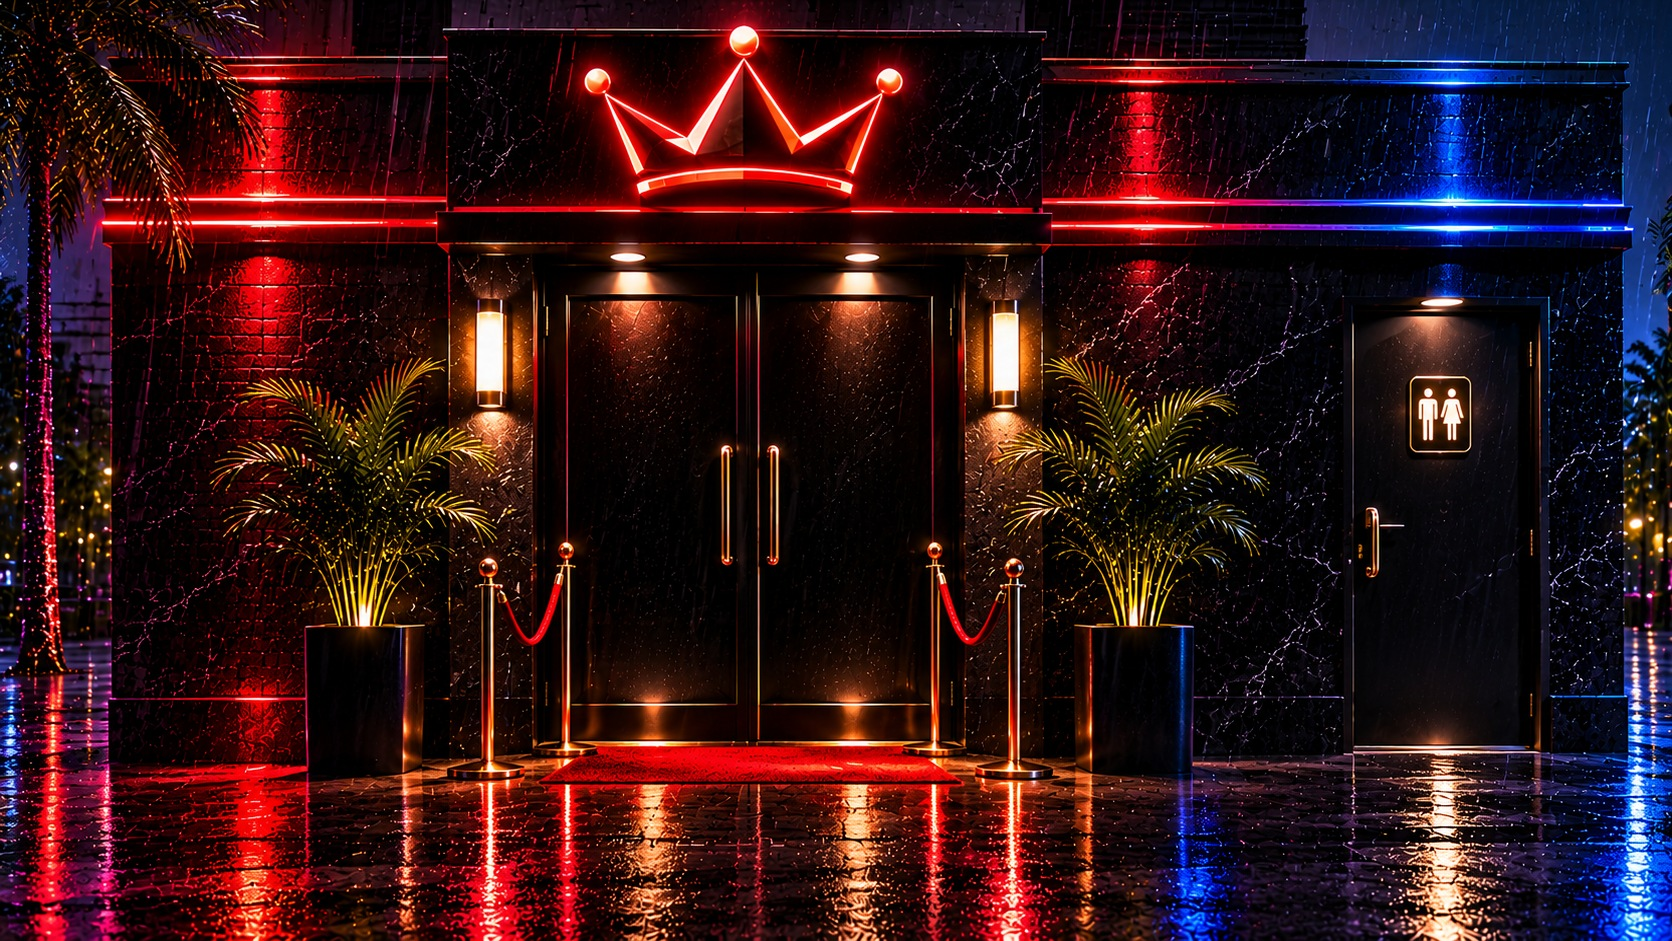
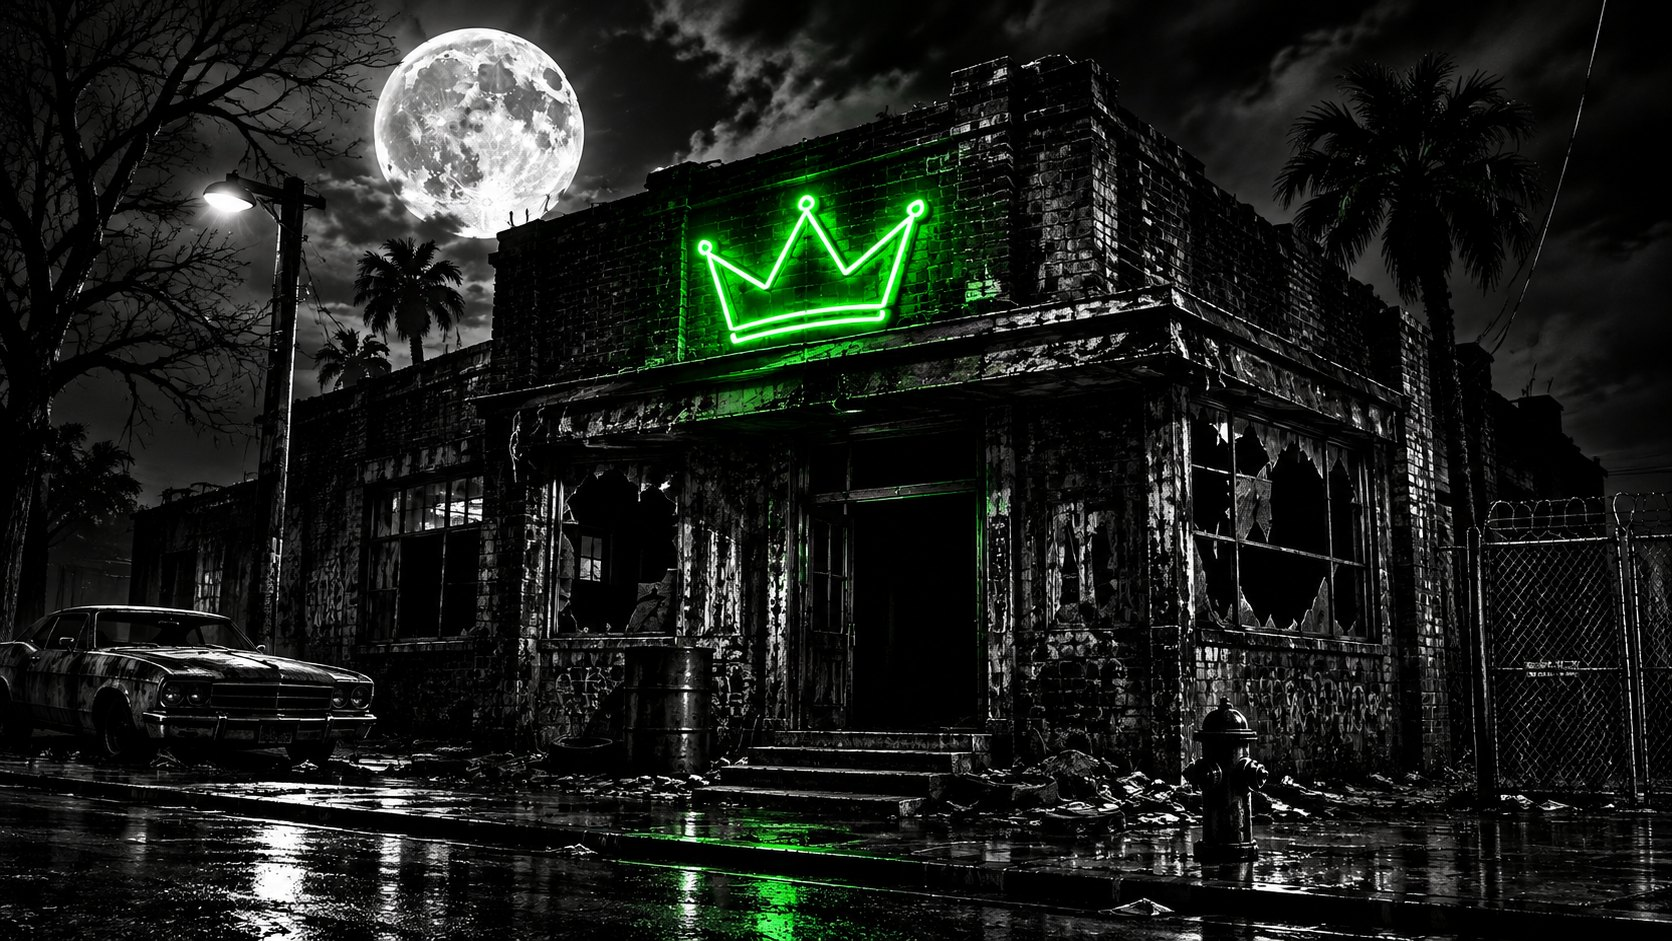
New storefront picture; neon crown blue when open, red when closed
Claude-Session: https://claude.ai/code/session_014kKEAi9YpWMgHaP7K5RMBS

diff --git a/index.html b/index.html
@@ -63,8 +63,8 @@ footer{color:#777f91}
 .hotspot{position:absolute;z-index:3;padding:0;margin:0;border:0;border-radius:6px;background:transparent;box-shadow:none;text-transform:none;cursor:pointer;-webkit-tap-highlight-color:transparent}
 .hotspot:hover{filter:none;box-shadow:none;background:rgba(255,226,170,.07)}
 .hotspot:focus-visible{outline:2px solid #43cfff;outline-offset:2px}
-.door-hotspot{left:32%;top:28%;width:25%;height:51%}
-.bath-hotspot{left:81%;top:32%;width:11%;height:48%}
+.door-hotspot{left:46%;top:44%;width:14%;height:38%}
+.bath-hotspot{display:none}
 .door-hotspot.door-opening{background:rgba(255,226,170,.2);transition:background .45s}
 .tap-hint{position:absolute;z-index:2;left:0;right:0;bottom:2.2%;margin:0;text-align:center;font:clamp(8px,1.5vw,11px) Arial,sans-serif;letter-spacing:3px;color:#ffd9a0;text-shadow:0 0 10px #000,0 0 16px #ff365f88;pointer-events:none}
 .window-message{position:absolute;z-index:8;right:2%;bottom:4%;width:min(320px,94%);padding:14px 16px;background:linear-gradient(rgba(5,9,22,.78),rgba(5,9,22,.92)),url(./art/bathroom.jpg) center/cover;border:1px solid #4bcfff;box-shadow:0 0 28px #35bfff66;color:#e8f7ff;text-align:left;backdrop-filter:blur(12px)}
@@ -87,7 +87,7 @@ footer{color:#777f91}
 <meta name="apple-mobile-web-app-status-bar-style" content="black-translucent">
 <link rel="icon" type="image/png" href="./icons/icon-192.png">
 <link rel="apple-touch-icon" href="./icons/apple-touch-icon.png">
-<link rel="stylesheet" href="./shop.css?v=nightshop-bar-6">
+<link rel="stylesheet" href="./shop.css?v=nightshop-sign-7">
 </head>
 <body>
 <header>
@@ -99,7 +99,7 @@ footer{color:#777f91}
  
 <section id="street-scene" aria-label="Lu’s Lounge exterior">
  <div class="exterior-frame">
-  <img id="exterior-artwork" src="./exterior.jpg" width="1672" height="941" alt="Lu’s Lounge at night: a neon crown sign over black double doors with a red carpet, and a restroom door on the right">
+  <img id="exterior-artwork" src="./exterior.jpg" width="1672" height="941" alt="Lu’s Lounge at night: a run-down brick building under a full moon with a neon crown sign over a dark open doorway. The crown is blue when the lounge is open and red when it is closed.">
   <span class="sign-glow" id="sign-glow" aria-hidden="true"></span>
   <button type="button" id="street-door" class="hotspot door-hotspot" aria-label="Enter Lu’s Lounge"></button>
   <button type="button" id="bathroom-door" class="hotspot bath-hotspot" aria-label="Open the private question door"></button>
@@ -168,7 +168,7 @@ document.querySelector("#close-window")?.addEventListener("click", () => {
   if (windowMessage) windowMessage.hidden = true;
 });
 </script>
-<script type="module" src="./pwa.js?v=nightshop-bar-6"></script>
-<script type="module" src="./login.js?v=nightshop-bar-6"></script>
+<script type="module" src="./pwa.js?v=nightshop-sign-7"></script>
+<script type="module" src="./login.js?v=nightshop-sign-7"></script>
 </body>
 </html>

diff --git a/login.js b/login.js
@@ -1,6 +1,6 @@
 import { supabase, SUPABASE_URL, SUPABASE_ANON_KEY } from "./supabase-client.js";
 
-const SHOP_VERSION = "nightshop-bar-6";
+const SHOP_VERSION = "nightshop-sign-7";
 
 const form = document.querySelector("#login-form");
 const note = document.querySelector("#status-note");
@@ -18,7 +18,6 @@ function loadPublishedExterior() {
   probe.onload = () => { image.src = url; };
   probe.src = url; // a 404 simply keeps the built-in picture
 }
-loadPublishedExterior();
 
 // The bathroom door: a private question to the owner (members only).
 const questionForm = document.querySelector("#question-form");
@@ -48,6 +47,14 @@ function showClosedDoor(closed, message) {
   const lock = document.querySelector("#entry-lock");
   const scene = document.querySelector("#street-scene");
   if (scene) { scene.classList.toggle("door-closed", Boolean(closed)); scene.classList.toggle("door-open", !closed); }
+  // the neon crown: blue when the lounge is open, red when it is closed
+  const picture = document.querySelector("#exterior-artwork");
+  if (picture) {
+    const next = closed ? "./exterior-closed.jpg" : "./exterior-open.jpg";
+    const probe = new Image();
+    probe.onload = () => { picture.src = next; };
+    probe.src = next;
+  }
   if (hint) hint.textContent = closed ? "🔒 CLOSED · MEMBERS CAN STILL SIGN IN" : "TAP THE DOORS TO ENTER";
   if (lock) {
     lock.hidden = !closed;

diff --git a/shop.css b/shop.css
@@ -199,9 +199,7 @@ body.entry-open{overflow:hidden}
 .sheet-holo span{font-size:92px;line-height:1.1;filter:drop-shadow(0 0 16px var(--c)) drop-shadow(0 0 4px #fff);animation:holo-float 3.4s ease-in-out infinite}
 .sheet-holo{align-items:center}
 /* outside only: the crown sign turns blue when the shop is open, stays red when closed */
-.exterior-frame .sign-glow{position:absolute;left:33%;top:1%;width:23%;height:23%;pointer-events:none;opacity:0;transition:opacity .6s;border-radius:50%}
-.door-open .sign-glow{opacity:1;mix-blend-mode:color;background:radial-gradient(ellipse at 50% 50%,#2b9dff 0,#2b9dffcc 48%,transparent 72%)}
-.door-closed .sign-glow{opacity:.7;mix-blend-mode:screen;background:radial-gradient(ellipse at 50% 50%,#ff2a4a66 0,transparent 70%)}
+.exterior-frame .sign-glow{display:none}
 
 .nsx .spot .spot-tag{opacity:0;transition:opacity .2s;top:100%;z-index:5}
 .nsx .spot:hover .spot-tag,.nsx .spot:focus-visible .spot-tag{opacity:1}

diff --git a/sw.js b/sw.js
@@ -1,5 +1,5 @@
 /* Lu’s Lounge service worker: makes the app installable, loads fast, and shows lock-screen alerts. */
-const CACHE = "nightshop-shell-13";
+const CACHE = "nightshop-shell-14";
 self.addEventListener("install", () => self.skipWaiting());
 self.addEventListener("activate", event => {
   event.waitUntil((async () => {
